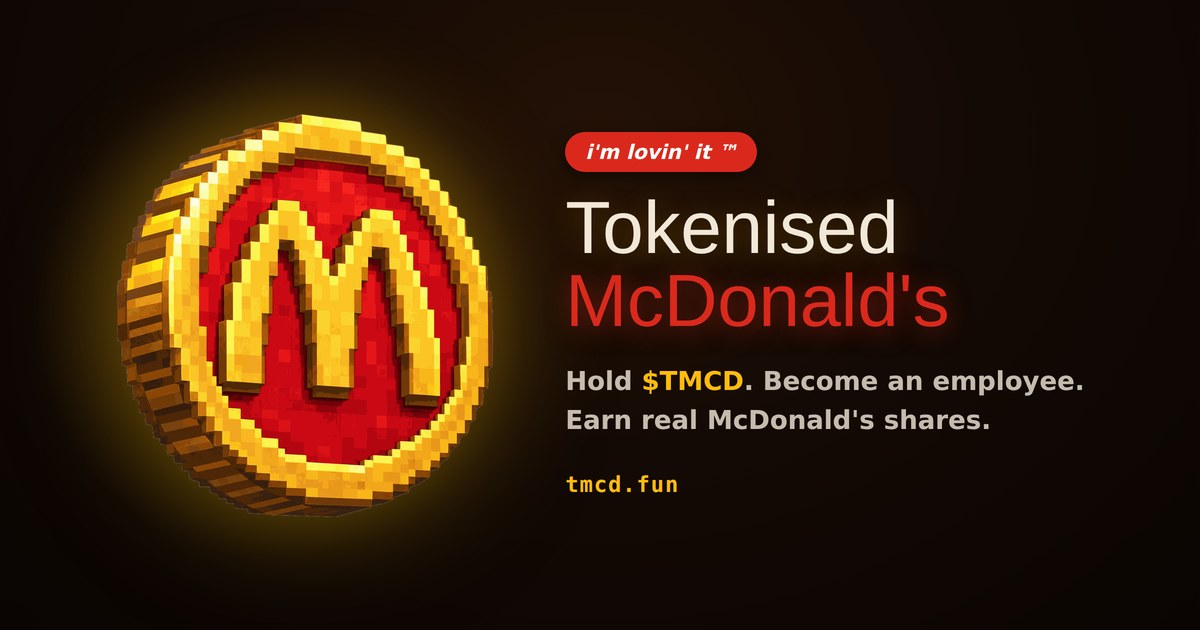
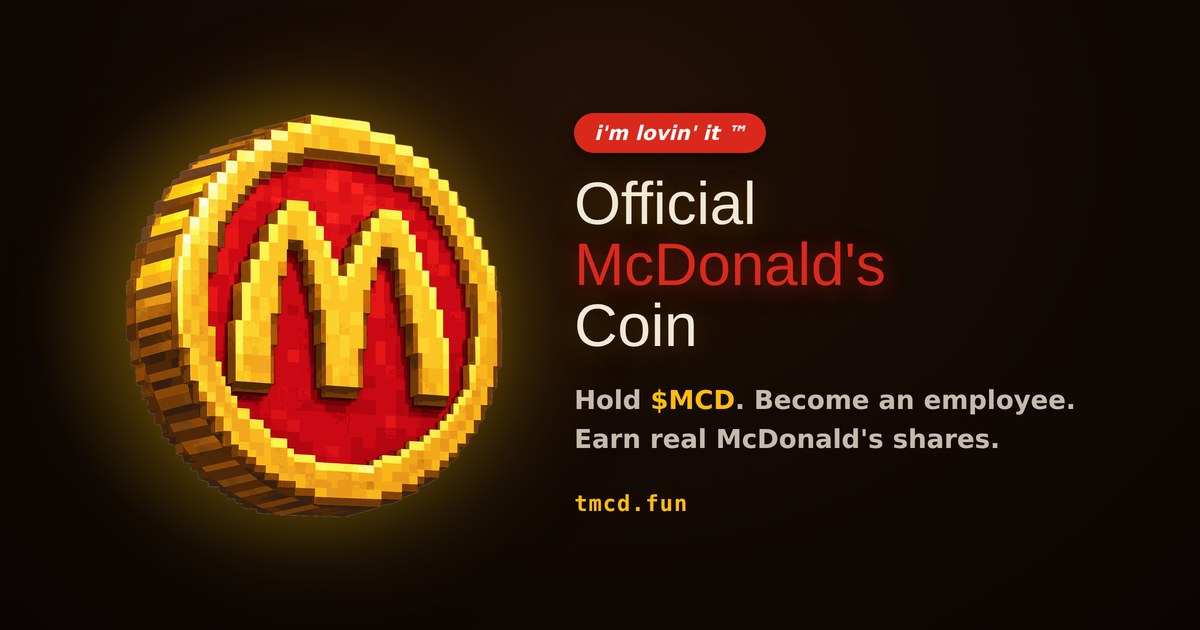
Rebrand to Official McDonald's Coin ($MCD)
Renamed the project from "Tokenised McDonald's" ($TMCD) to "Official
McDonald's Coin" ($MCD) across every visible surface: title, all
social meta tags (og:*, twitter:*), landing headline and lede,
topnav wordmark, hero headline/pill/subtitle/CTAs, the "What is"
section, how-to-buy steps, and the footer disclaimer. Internal
localStorage key names (tmcd-happymeal-*) are left as-is -- they're
invisible storage plumbing, not the displayed brand, and renaming
them would only orphan existing players' local scores.

X handle updated to https://x.com/itsmcdfun.

Since the token's ticker is now identical to how the site already
referred to the real McDonald's stock reward ($MCD), rewrote the one
line that would otherwise have read as circular ("swap for $MCD" ...
"$MCD lands in your wallet") -- the reward is now described as "real
McDonald's stock" without a second $MCD reference, so the token
you buy and the stock you earn stay distinguishable in the copy
even though they now share a symbol.

Regenerated the OG/link-preview image (the old one had "Tokenised
McDonald's" baked into its pixels) with the new name, verified
against a live font-load check the same way the first version was.

Verified visually at both desktop and mobile widths -- landing,
site hero, and topnav all wrap cleanly with the longer name, and
mobile still fits with zero scrolling.

Note: this ticker/name intentionally overlaps with McDonald's Corp's
[…]

Changed region(s): [[0.0925, 0.181, 0.4317, 0.8143], [0.4625, 0.1508, 0.8942, 0.7238], [0.4625, 0.754, 0.5858, 0.8143]]

diff --git a/index.html b/index.html
@@ -3,8 +3,8 @@
 <head>
 <meta charset="UTF-8">
 <meta name="viewport" content="width=device-width, initial-scale=1">
-<title>Tokenised McDonald's ($TMCD)</title>
-<meta name="description" content="Tokenised McDonald's. Hold $TMCD to become an employee and earn real McDonald's shares. A memecoin that pays out in $MCD.">
+<title>Official McDonald's Coin ($MCD)</title>
+<meta name="description" content="Official McDonald's Coin. Hold $MCD to become an employee and earn real McDonald's stock. The memecoin that pays out in McDonald's shares.">
 <meta name="theme-color" content="#140a05">
 <link rel="preconnect" href="https://fonts.googleapis.com">
 <link rel="preconnect" href="https://fonts.gstatic.com" crossorigin>
@@ -18,15 +18,15 @@
      flatten it onto plain white, which looks like a sticker on paper. -->
 <meta property="og:type" content="website">
 <meta property="og:url" content="https://tmcd.fun/">
-<meta property="og:title" content="Tokenised McDonald's ($TMCD)">
-<meta property="og:description" content="Hold $TMCD to become an employee and earn real McDonald's shares. A memecoin that pays out in $MCD.">
+<meta property="og:title" content="Official McDonald's Coin ($MCD)">
+<meta property="og:description" content="Hold $MCD to become an employee and earn real McDonald's stock. The memecoin that pays out in McDonald's shares.">
 <meta property="og:image" content="https://tmcd.fun/assets/og-image.jpg">
 <meta property="og:image:width" content="1200">
 <meta property="og:image:height" content="630">
-<meta property="og:image:alt" content="Tokenised McDonald's coin">
+<meta property="og:image:alt" content="Official McDonald's Coin">
 <meta name="twitter:card" content="summary_large_image">
-<meta name="twitter:title" content="Tokenised McDonald's ($TMCD)">
-<meta name="twitter:description" content="Hold $TMCD to become an employee and earn real McDonald's shares. A memecoin that pays out in $MCD.">
+<meta name="twitter:title" content="Official McDonald's Coin ($MCD)">
+<meta name="twitter:description" content="Hold $MCD to become an employee and earn real McDonald's stock. The memecoin that pays out in McDonald's shares.">
 <meta name="twitter:image" content="https://tmcd.fun/assets/og-image.jpg">
 <style>
   :root {
@@ -1422,10 +1422,10 @@
   <div class="menu-wrap">
     <div class="menu-brand">
       <div class="glow" aria-hidden="true"></div>
-      <img class="coin-logo" src="assets/logo.png" alt="Tokenised McDonald's coin">
+      <img class="coin-logo" src="assets/logo.png" alt="Official McDonald's Coin">
       <div class="lovin">i'm lovin' it&nbsp;™</div>
-      <h1>Tokenised <span class="accent">McDonald's</span></h1>
-      <p class="lede">Hold $TMCD. Become an employee. Earn real McDonald's shares.</p>
+      <h1>Official <span class="accent">McDonald's</span> Coin</h1>
+      <p class="lede">Hold $MCD. Become an employee. Earn real McDonald's shares.</p>
     </div>
     <div class="menu-pick">Pick where to go</div>
     <div class="menu">
@@ -1458,7 +1458,7 @@
     <div class="topnav-inner">
       <a class="brand" href="#" data-goto="landing" aria-label="Home">
         <img class="brand-coin" src="assets/logo.png" alt="">
-        <span>Tokenised McDonald's</span>
+        <span>Official McDonald's Coin</span>
       </a>
       <nav>
         <a href="#what">What Is It</a>
@@ -1466,7 +1466,7 @@
         <a href="#community">Community</a>
         <a href="#" class="game-link" data-goto="game">🍟 Game</a>
       </nav>
-      <a class="buy-btn" href="#howto">Buy $TMCD</a>
+      <a class="buy-btn" href="#howto">Buy $MCD</a>
     </div>
   </header>
 
@@ -1474,18 +1474,18 @@
     <section class="hero">
       <div>
         <div class="pill">i'm lovin' it&nbsp;™ &nbsp;·&nbsp; the employee stock memecoin</div>
-        <h1 class="headline">Tokenised <span class="red">McDonald's</span></h1>
+        <h1 class="headline">Official <span class="red">McDonald's</span> Coin</h1>
         <p class="sub">
-          A memecoin called Tokenised McDonald's. Ticker <b>$TMCD</b>.
+          The Official McDonald's Coin. Ticker <b>$MCD</b>.
           Hold it, and you're on the payroll. Every employee earns real McDonald's shares, sent to their wallet.
         </p>
         <div class="cta-row">
-          <a class="btn btn-primary" href="#howto">Get $TMCD</a>
-          <a class="btn btn-ghost"   href="#what">What Is $TMCD</a>
+          <a class="btn btn-primary" href="#howto">Get $MCD</a>
+          <a class="btn btn-ghost"   href="#what">What Is $MCD</a>
         </div>
       </div>
       <div class="hero-art">
-        <img class="hero-coin" src="assets/logo.png" alt="$TMCD coin">
+        <img class="hero-coin" src="assets/logo.png" alt="$MCD coin">
       </div>
     </section>
 
@@ -1499,9 +1499,9 @@
     </section>
 
     <section class="section" id="what">
-      <h2>What is $TMCD?</h2>
-      <p>Tokenised McDonald's is a memecoin. Its ticker is <b>$TMCD</b>.</p>
-      <p>Hold the token and you become a Tokenised McDonald's employee. Employees earn real McDonald's shares. Payouts land in your wallet on a schedule.</p>
+      <h2>What is $MCD?</h2>
+      <p>Official McDonald's Coin is a memecoin. Its ticker is <b>$MCD</b>.</p>
+      <p>Hold the token and you become an Official McDonald's Coin employee. Employees earn real McDonald's shares. Payouts land in your wallet on a schedule.</p>
       <p>It is silly. It is fun. And the paycheck is real.</p>
     </section>
 
@@ -1516,8 +1516,8 @@
       <ol class="steps">
         <li>Get a wallet. Any wallet.</li>
         <li>Copy the contract address above.</li>
-        <li>Swap for <b>$TMCD</b> on your DEX.</li>
-        <li>Hold. You're on the payroll. <b>$MCD</b> shares land in your wallet on a schedule.</li>
+        <li>Swap for <b>$MCD</b> on your DEX.</li>
+        <li>Hold. You're on the payroll. Real McDonald's stock lands in your wallet on a schedule.</li>
       </ol>
     </section>
 
@@ -1534,7 +1534,7 @@
     </section>
 
     <footer class="site-foot">
-      <p>$TMCD is a memecoin. This site is satire. Nothing here is financial advice.</p>
+      <p>$MCD is a memecoin. This site is satire. Nothing here is financial advice.</p>
       <p>Not affiliated with, endorsed by, or associated with McDonald's Corporation.</p>
     </footer>
   </div>
@@ -1621,7 +1621,7 @@
    CONFIG. Edit these once the token launches.
 ========================================================= */
 const CONTRACT_ADDRESS = "Coming soon. Paste CA here.";
-const X_URL            = "https://x.com/tmcdfun";
+const X_URL            = "https://x.com/itsmcdfun";
 const AUDIO_URL        = "sounds/mcd-beep.mp3"; // loops non-stop after entry
 
 document.getElementById('ca-value').textContent = CONTRACT_ADDRESS;
